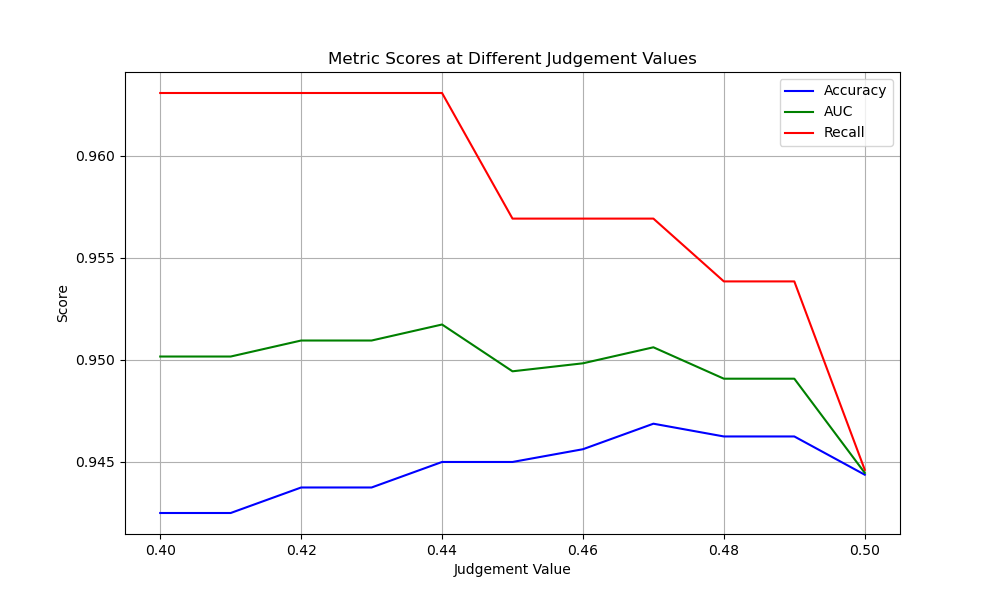
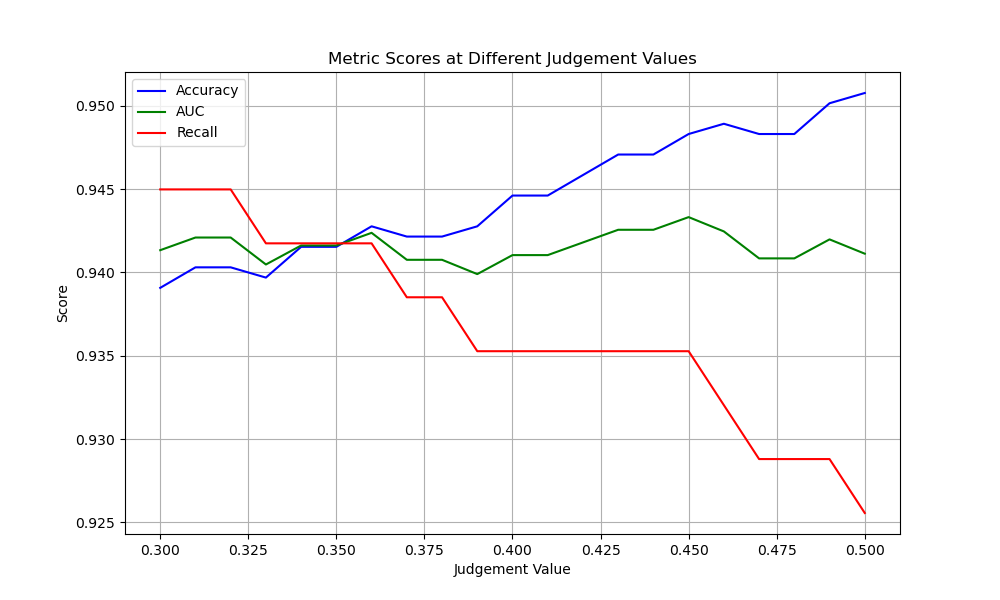
update

diff --git a/dynamic_r_test.py b/dynamic_r_test.py
@@ -35,10 +35,13 @@ os.system(f"rm -rf {visual_dir}/*")
 os.makedirs(visual_dir+'/0/', exist_ok=True)
 os.makedirs(visual_dir+'/1/', exist_ok=True)
 # Test the model and save visualizations
+
 with open(os.path.join(args.data_path,'split',f'{args.split_name}.json'),'r') as f:
-    split_list=json.load(f)['test']
+    split_list=json.load(f)
+val_data_list=split_list['val']
 with open(os.path.join(args.data_path,'annotations.json'),'r') as f:
     data_dict=json.load(f)
+    
 img_transforms=transforms.Compose([
     transforms.Resize((600,800)),
             transforms.ToTensor(),
@@ -46,14 +49,12 @@ img_transforms=transforms.Compose([
                 mean=[0.4623, 0.3856, 0.2822],
                 std=[0.2527, 0.1889, 0.1334])])
 begin=time.time()
-predict=[]
-labels=[]
-
+labels_val=[]
 val_list_postive=[]
 val_list_negtive=[]
 val_list=[]
 with torch.no_grad():
-    for image_name in split_list:
+    for image_name in val_data_list:
         mask=Image.open(data_dict[image_name]['mask_path']).resize((800,600),resample=Image.Resampling.BILINEAR)
         mask=np.array(mask)
         mask[mask>0]=1
@@ -69,16 +70,50 @@ with torch.no_grad():
         output_img=torch.sigmoid(output_img)
         max_val=float(torch.max(output_img))
         val_list.append(max_val)
+        if data['stage']>0:
+            tar=1
+        else:
+            tar=0
+
+        labels_val.append(tar)
+val_list=np.array(val_list)
+max_auc= 0
+best_judge=0
+for judge_val in np.arange(0.3, 0.51, 0.01):
+    pred_label=val_list>judge_val
+    auc=roc_auc_score(labels_val,pred_label)
+    
+    if auc>max_auc:
+        best_judge=judge_val
+        max_auc=auc
+print("best judgeval is ",best_judge)
+predict=[]
+labels=[]
+test_data_list=split_list['test']
+with torch.no_grad():
+    for image_name in test_data_list:
+        mask=Image.open(data_dict[image_name]['mask_path']).resize((800,600),resample=Image.Resampling.BILINEAR)
+        mask=np.array(mask)
+        mask[mask>0]=1
+    
+        data=data_dict[image_name]
+        img = Image.open(data['enhanced_path'])
+        img_tensor = img_transforms(img)
+        
+        img=img_tensor.unsqueeze(0).to(device)
+        output_img = model(img).cpu()
+        # Resize the output to the original image size
+        
+        output_img=torch.sigmoid(output_img)
+        max_val=float(torch.max(output_img))
         output_img=F.interpolate(output_img,(600,800), mode='nearest')
         output_img=output_img*mask
         
-        output_img=torch.where(output_img>0.5,1,0).squeeze()
+        output_img=torch.where(output_img>best_judge,1,0).squeeze()
         if data['stage']>0:
             tar=1
-            val_list_postive.append(max_val)
         else:
             tar=0
-            val_list_negtive.append(max_val)
         if (torch.sum(output_img)>=1):
             pred=1
         else:
@@ -100,8 +135,6 @@ with torch.no_grad():
                 visual_mask(data['image_path'],output_img,str(int(torch.sum(output_img))),
                             save_path=os.path.join(visual_dir,'1',image_name))
 
-                # visual_points(data['image_path'],output_img,
-                #               save_path= os.path.join(visual_dir,'1',image_name[:-4]+'_point.jpg'))
         labels.append(tar)
         predict.append(pred)
 
@@ -111,51 +144,3 @@ recall=recall_score(labels,predict)
 print(f"Accuracy: {acc:.4f}")
 print(f"AUC: {auc:.4f}")
 print(f"Recall: {recall:.4f}")
-import matplotlib.pyplot as plt
-# Bin data with width 0.2
-bins = np.arange(0, 1.01, 0.05)  # Bins from 0 to 1 with step size 0.2
-positive_hist, _ = np.histogram(val_list_postive, bins=bins, density=True)
-negative_hist, _ = np.histogram(val_list_negtive, bins=bins, density=True)
-
-# Calculate proportions for each bin
-positive_hist *= 0.05  # width of bins
-negative_hist *= 0.05
-
-# Plot with overlapping bars
-plt.bar(bins[:-1], positive_hist, width=0.05, align='center', alpha=0.5, color='blue', label='Positive')
-plt.bar(bins[:-1], negative_hist, width=0.05, align='center', alpha=0.5, color='orange', label='Negative')
-plt.xlabel('Value Range')
-plt.ylabel('Proportion')
-plt.title('Value Distribution')
-plt.xticks(bins)
-plt.legend()
-
-# Save the figure
-plt.savefig('./save.png')
-val_list=np.array(val_list)
-acc_list=[]
-auc_list=[]
-recall_list=[]
-
-for judge_val in np.arange(0.3, 0.51, 0.01):
-    pred_label=val_list>judge_val
-    acc_list.append(accuracy_score(labels,pred_label))
-    auc_list.append(roc_auc_score(labels,pred_label))
-    recall_list.append(recall_score(labels,pred_label))
-    
-# Create range for x-axis
-x_range = np.arange(0.3, 0.51, 0.01)
-
-# Plotting
-plt.figure(figsize=(10, 6))
-plt.plot(x_range, acc_list, label='Accuracy', color='blue')
-plt.plot(x_range, auc_list, label='AUC', color='green')
-plt.plot(x_range, recall_list, label='Recall', color='red')
-
-plt.xlabel('Judgement Value')
-plt.ylabel('Score')
-plt.title('Metric Scores at Different Judgement Values')
-plt.legend()
-plt.grid(True)
-plt.savefig('./save_line.png')
-

diff --git a/test copy.py b/test copy.py
@@ -49,11 +49,20 @@ begin=time.time()
 predict=[]
 labels=[]
 
+new_split_list=[]
+for image_name  in split_list:
+    if data_dict[image_name]['stage']>0:
+        new_split_list.append(image_name)
+    else:
+        if data_dict[image_name]["suspicious"]:
+            continue
+        new_split_list.append(image_name)
+        
 val_list_postive=[]
 val_list_negtive=[]
 val_list=[]
 with torch.no_grad():
-    for image_name in split_list:
+    for image_name in new_split_list:
         mask=Image.open(data_dict[image_name]['mask_path']).resize((800,600),resample=Image.Resampling.BILINEAR)
         mask=np.array(mask)
         mask[mask>0]=1
@@ -73,7 +82,7 @@ with torch.no_grad():
         output_img=output_img*mask
         
         output_img=torch.where(output_img>0.5,1,0).squeeze()
-        if data['stage']>0:
+        if 'ridge' in data:
             tar=1
             val_list_postive.append(max_val)
         else:
@@ -99,9 +108,6 @@ with torch.no_grad():
                             save_path=os.path.join(visual_dir,'1',image_name[:-4]+'_point.jpg'))
                 visual_mask(data['image_path'],output_img,str(int(torch.sum(output_img))),
                             save_path=os.path.join(visual_dir,'1',image_name))
-
-                # visual_points(data['image_path'],output_img,
-                #               save_path= os.path.join(visual_dir,'1',image_name[:-4]+'_point.jpg'))
         labels.append(tar)
         predict.append(pred)
 
@@ -137,14 +143,14 @@ acc_list=[]
 auc_list=[]
 recall_list=[]
 
-for judge_val in np.arange(0.3, 0.51, 0.01):
+for judge_val in np.arange(0.4, 0.51, 0.01):
     pred_label=val_list>judge_val
     acc_list.append(accuracy_score(labels,pred_label))
     auc_list.append(roc_auc_score(labels,pred_label))
     recall_list.append(recall_score(labels,pred_label))
     
 # Create range for x-axis
-x_range = np.arange(0.3, 0.51, 0.01)
+x_range = np.arange(0.4, 0.51, 0.01)
 
 # Plotting
 plt.figure(figsize=(10, 6))

diff --git a/paser_record.py b/paser_record.py
@@ -1,0 +1,20 @@
+import json,os
+with open('./record.json','r') as f:
+    orignal_record=json.load(f)
+res={}
+for model_name in orignal_record:
+    model_res={
+        "accuracy": 0.0,
+            "auc": 0.0,
+            "recall": 0.0
+    }
+    for split in orignal_record[model_name]:
+        model_res['accuracy']+=orignal_record[model_name][split]['accuracy']
+        model_res['auc']+=orignal_record[model_name][split]['auc']
+        model_res['recall']+=orignal_record[model_name][split]['recall']
+    model_res['accuracy']=round(model_res['accuracy']/4,4)
+    model_res['auc']=round(model_res['auc']/4,4)
+    model_res['recall']=round(model_res['recall']/4,4)
+    res[model_name]=model_res
+with open('./paser_record.json','w') as f:
+    json.dump(res,f)

diff --git a/cleansing.py b/cleansing.py
@@ -26,13 +26,15 @@ def generate_segmentation_mask(data_path, patch_size, stride_val):
             
         
         data = data_list[image_name]
-        if not 'ridge' in data:
+        if data['stage']==0:
             if data["suspicious"]:
                 continue
             else:
                 stride=stride_val*2
                 mask=Image.new('L',(800,600))
         else:
+            if 'ridge' not  in data:
+                continue # missing ridge annotation
             stride= stride_val
             mask = Image.open(data['ridge_diffusion_path'])
             mask=mask.resize((800,600),resample=Image.Resampling.NEAREST)

diff --git a/config.py b/config.py
@@ -9,7 +9,7 @@ def get_config():
                         help='if generate the ridge cooridinate from json src.')
     
     # split
-    parser.add_argument('--split_name', type=str, default='1',
+    parser.add_argument('--split_name', type=str, default='clr_1',
                         help='which split to use.')
     
     # Model

diff --git a/util/dataset.py b/util/dataset.py
@@ -160,7 +160,7 @@ class ridge_finetone_val(Dataset):
             mask[mask!=0]=1.
         else:
             mask=torch.zeros((1,150,200))
-        if 'ridge' not in data:
+        if data['stage']>0:
             label=0
         else:
             label=1
